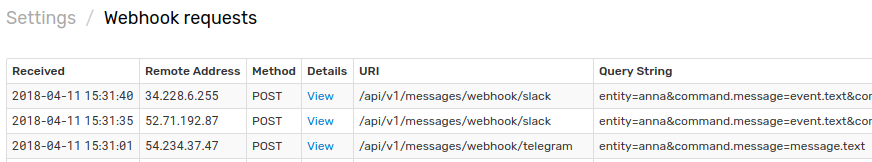
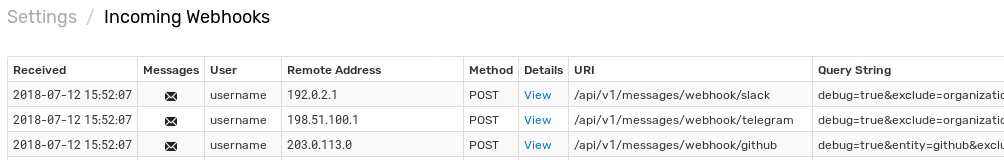
Incoming Webhooks page (#696)
thank you.

diff --git a/rule-engine/notifications/outgoing-webhook-telegram.md b/rule-engine/notifications/outgoing-webhook-telegram.md
@@ -132,11 +132,9 @@ User ${tags.message.from.first_name} ${tags.message.from.last_name}/${tags.messa
 
     ![](./images/outgoing_webhook_telegram_2.png)
 
-* Open **Settings > Diagnostics > Webhook Requests** page and check that a request from Slack servers has been received.
+* Open **Alerts > Incoming Webhooks** page and check that a request from Telegram servers has been received.
 
-    ![](./images/outgoing_webhook_slack_18.png)
-
-    ![](./images/outgoing_webhook_slack_19.png)
+    ![](./images/outgoing_webhook_telegram_4.png)
 
 * If the request is not visible, check **Settings > Diagnostics > Security Incidents** page which displays an error in case the user credentials are mis-configured.
 

diff --git a/rule-engine/notifications/outgoing-webhook-slack.md b/rule-engine/notifications/outgoing-webhook-slack.md
@@ -136,9 +136,7 @@ Received `${message}` from <@${tags.event.user}>
 > * less-than sign, `<` replaced with `&lt;`
 > * greater-than sign, `>` replaced with `&gt;`
 
-* Open **Settings > Diagnostics > Webhook Requests** page and check that a request from Slack servers has been received.
-
-    ![](./images/outgoing_webhook_slack_18.png)
+* Open **Alerts > Incoming Webhooks** page and check that a request from Slack servers has been received.
 
     ![](./images/outgoing_webhook_slack_19.png)
 

diff --git a/rule-engine/incoming-webhooks.md b/rule-engine/incoming-webhooks.md
@@ -589,8 +589,8 @@ Command:
 
 ## Diagnostics
 
-The last 100 recently received webhooks are listed on the **Settings > Diagnostics > Webhook Requests** page.
+The last 100 recently received webhooks are listed on the **Alerts > Incoming Webhooks** page.
 
-![](./images/webhooks.png)
+![](../api/data/messages/images/webhooks.png)
 
-![](./images/webhook-detail.png)
+![](../api/data/messages/images/webhook-detail.png)

diff --git a/api/data/messages/webhook.md b/api/data/messages/webhook.md
@@ -589,7 +589,7 @@ Command:
 
 ## Diagnostics
 
-The last 100 recently received webhooks are listed on the **Settings > Diagnostics > Webhook Requests** page.
+The last 100 recently received webhooks are listed on the **Alerts > Incoming Webhooks** page.
 
 ![](./images/webhooks.png)
 
